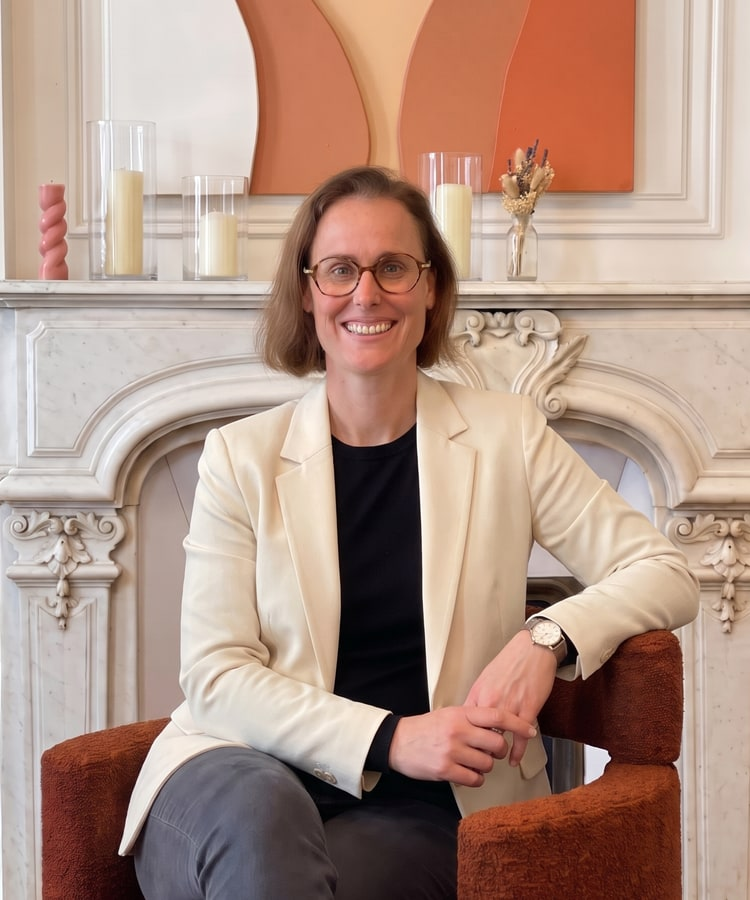
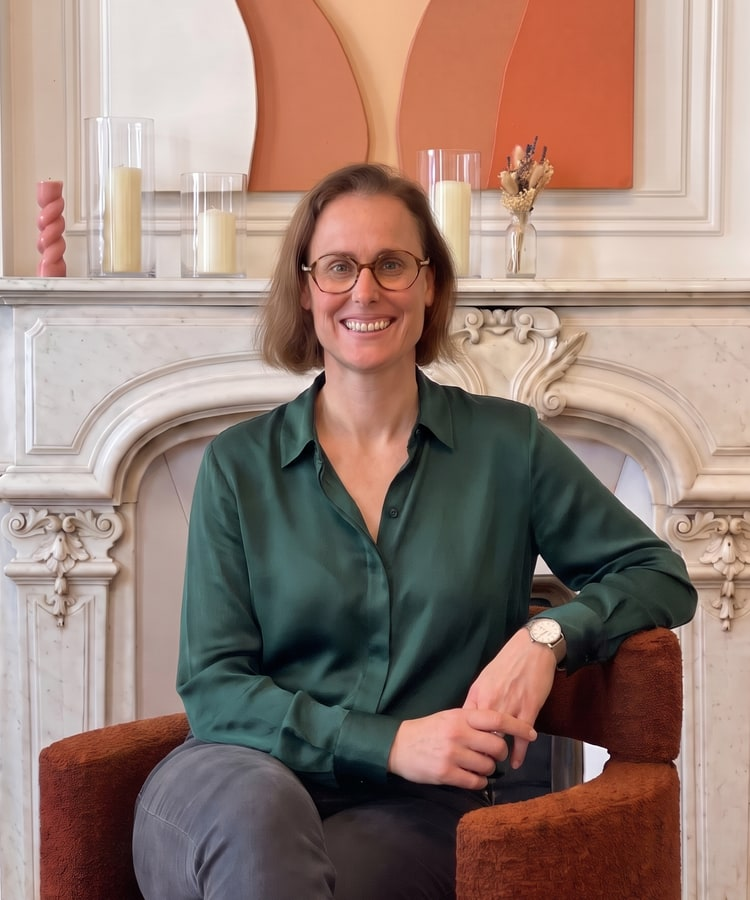
Ajoute le portrait d'Isabelle et retouche Marjorie (#149)
* ajoute le portrait d'Isabelle et retouche celui de Marjorie

* reprend le vrai visage d'Isabelle sur son portrait

* reprend le portrait d'Isabelle assise dans sa tenue d'origine

* pose le vrai visage d'Isabelle sur son portrait assis

* garde la tête d'Isabelle telle quelle et recompose le reste du portrait

* met un chemisier en soie blanc à Isabelle

* atténue les cernes d'Isabelle et passe la veste de Caroline en vert sapin

* met un chemisier en soie vert sapin à Caroline

---------

diff --git a/src/content/pages/a-propos.tsx b/src/content/pages/a-propos.tsx
@@ -135,13 +135,12 @@ export const sections: Section[] = [
         },
       },
       {
-        // TODO : portrait à venir.
         title: "Isabelle",
         description:
           "Responsable du pôle loisir et conciergerie",
         image: {
-          src: "/collaborateurs/portrait-attente.png",
-          alt: "Portrait à venir d'Isabelle",
+          src: "/collaborateurs/isabelle-chair-hd.jpg",
+          alt: "Portrait d'Isabelle, Exuma",
         },
       },
       {
